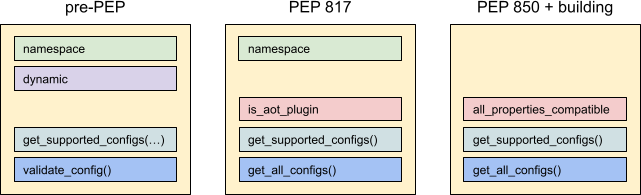
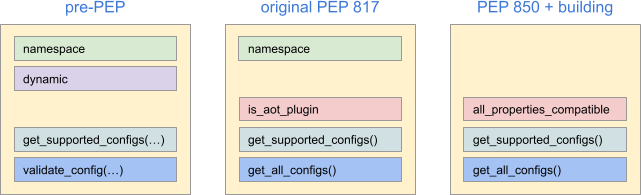
Fig. 4

diff --git a/apps/labs/posts/a-year-into-wheel-variant-work.md b/apps/labs/posts/a-year-into-wheel-variant-work.md
@@ -245,7 +245,7 @@ All the provider changes also meant that the plugin API fluctuated.
 <div style="text-align: center">
 <figure style="width: auto; margin: 0 2em; display: inline-block; verticalAlign: top">
   <img src="/posts/a-year-into-wheel-variant-work/plugin-api.png"
-    width="641" height="195" alt="TODO" />
+    width="641" height="195" alt="A side-by-side comparison of the plugin API in the pre-PEP, original PEP 817 and PEP 850 + building version. The first row contains namespace attribute that is present in the two first versions, but removed in the PEP 850 version. The second row features the dynamic attribute that is only present in the pre-PEP version. The third row is missing in the pre-PEP version; in original PEP 817 version it contains is_aot_plugin, which is then replaced by all_properties_compatible. The fourth row contains get_supported_configs function across all versions, with an optional parameter in the pre-PEP version. The final row contains validate_config in the pre-PEP version, which is replaced by get_all_configs in the two later versions." />
   <figcaption>Fig. 4. The evolution of plugin API</figcaption>
 </figure>
 </div>
